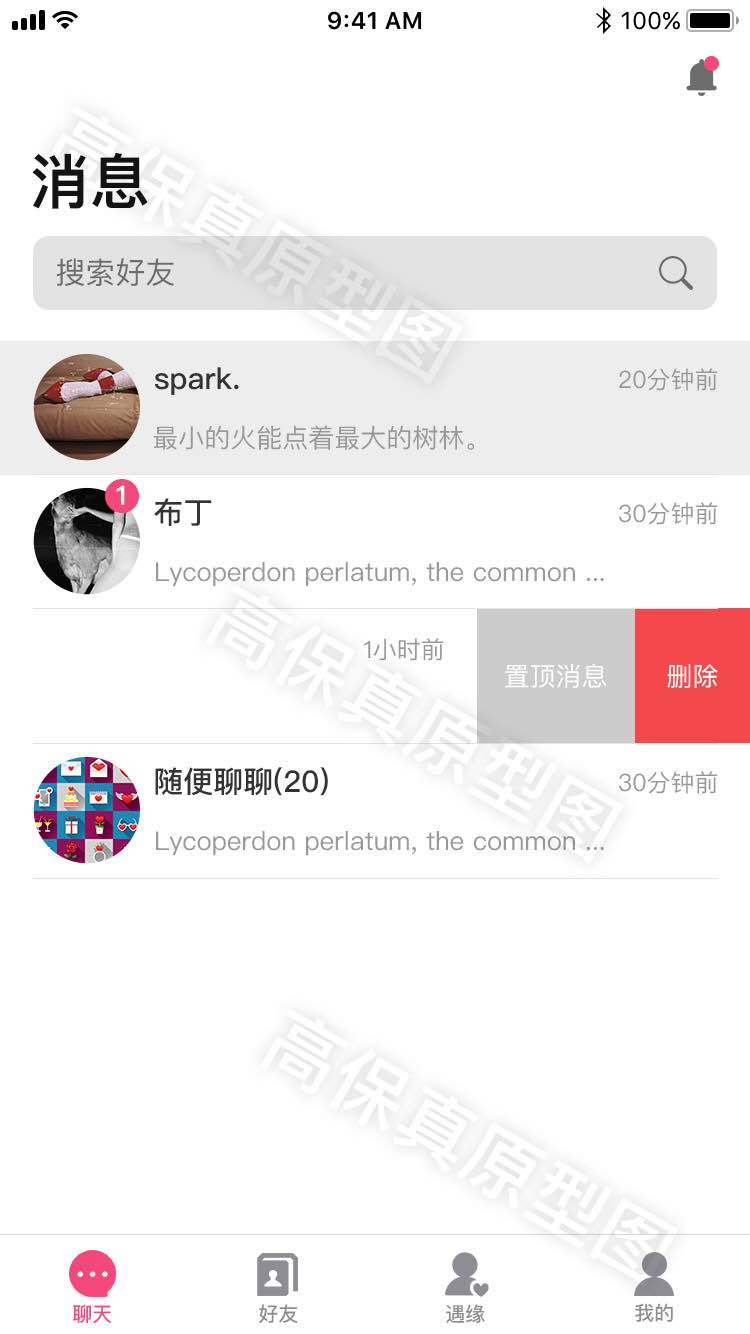
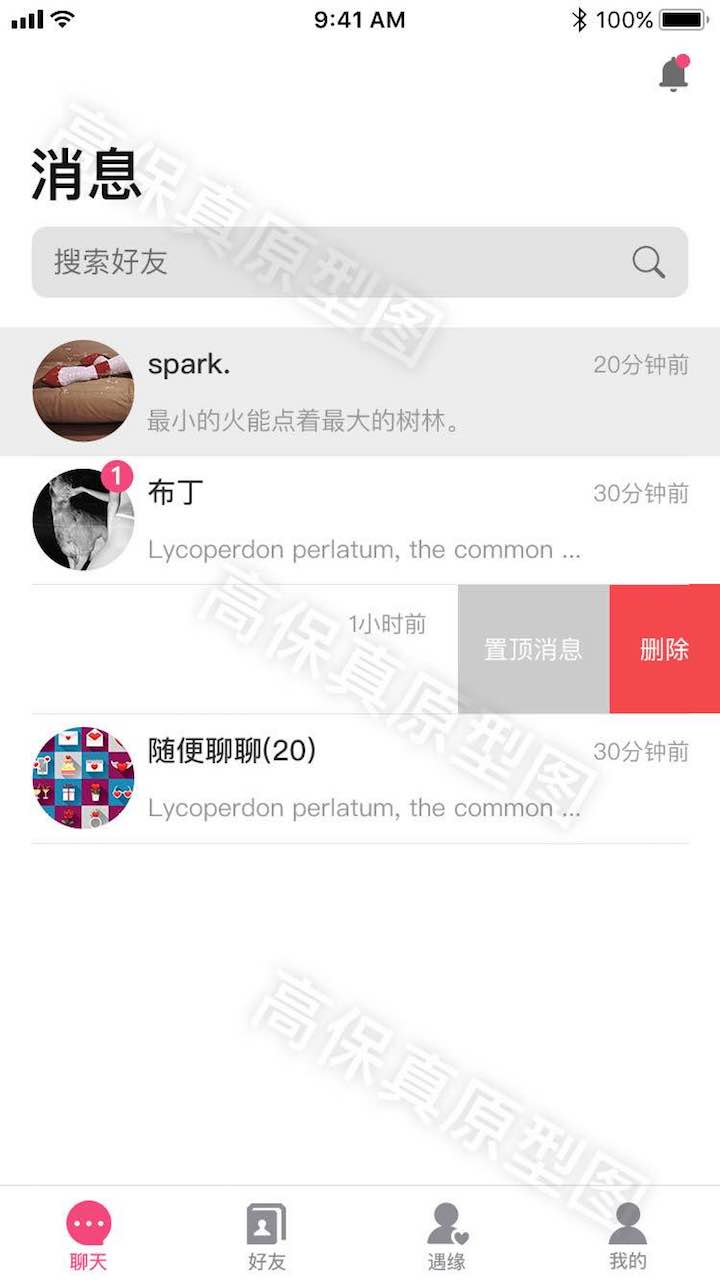
调整聊天信息UI

diff --git a/app/src/main/java/com/agmbat/meetyou/tab/msg/RecentMsgView.java b/app/src/main/java/com/agmbat/meetyou/tab/msg/RecentMsgView.java
@@ -6,9 +6,15 @@ import android.widget.ImageView;
 import android.widget.LinearLayout;
 import android.widget.TextView;
 
+import com.agmbat.android.image.ImageManager;
 import com.agmbat.meetyou.R;
 import com.agmbat.meetyou.data.ChatMessage;
 import com.agmbat.meetyou.data.RecentChat;
+import com.agmbat.time.TimeUtils;
+import com.nostra13.universalimageloader.core.DisplayImageOptions;
+import com.nostra13.universalimageloader.core.display.CircleBitmapDisplayer;
+import com.nostra13.universalimageloader.core.display.RoundedBitmapDisplayer;
+import com.nostra13.universalimageloader.core.display.SimpleBitmapDisplayer;
 
 public class RecentMsgView extends LinearLayout {
 
@@ -35,7 +41,7 @@ public class RecentMsgView extends LinearLayout {
             mMessageView.setVisibility(View.VISIBLE);
             setLastMessageBody(msg);
             mLastMsgTimeView.setVisibility(View.VISIBLE);
-            mLastMsgTimeView.setText(msg.getShowLastText());
+            mLastMsgTimeView.setText(TimeUtils.formatTime(msg.getTimestamp()));
         } else {
             mMessageView.setVisibility(View.GONE);
             mLastMsgTimeView.setVisibility(View.GONE);
@@ -50,7 +56,9 @@ public class RecentMsgView extends LinearLayout {
         }
 
 //        String uri = Scheme.wrapUri("avatar", recentChat.getContact().getAvatarId());
-//        ImageManager.displayImage(uri, mAvatarView);
+//        String uri = "http://img1.imgtn.bdimg.com/it/u=1669956509,228298322&fm=27&gp=0.jpg";
+        String uri = "https://ss2.bdstatic.com/70cFvnSh_Q1YnxGkpoWK1HF6hhy/it/u=3109469113,4179252995&fm=27&gp=0.jpg";
+        ImageManager.displayImage(uri, mAvatarView, getOptions());
 
 //        if (ConnectionHelper.getAvatarManager().isAvatarCached(
 //                recentChat.getContact().getAvatarId())) {
@@ -62,7 +70,30 @@ public class RecentMsgView extends LinearLayout {
 //        }
     }
 
+    /**
+     * 图片显示参数
+     */
+    private static DisplayImageOptions sOptions = null;
+
+    private static DisplayImageOptions getOptions() {
+        if (sOptions == null) {
+            DisplayImageOptions.Builder builder = new DisplayImageOptions.Builder();
+            // builder.showImageOnLoading(R.drawable.ic_stub);
+            int drawableId = R.drawable.ic_default_avatar;
+            builder.showImageForEmptyUri(drawableId);
+            builder.showImageOnFail(drawableId);
+            builder.cacheInMemory(true);
+            builder.cacheOnDisk(true);
+            builder.considerExifParams(false);
+//            builder.displayer(new SimpleBitmapDisplayer()); // new RoundedBitmapDisplayer(20)
+            builder.displayer(new CircleBitmapDisplayer()); // new RoundedBitmapDisplayer(20)
+            sOptions = builder.build();
+        }
+        return sOptions;
+    }
+
     private void setLastMessageBody(ChatMessage msg) {
+        mMessageView.setText(msg.getContent());
 //        Body body = msg.getBody();
 //        if (body instanceof TextBody) {
 //            TextBody textBody = (TextBody) body;

diff --git a/app/src/main/java/com/agmbat/meetyou/tab/MeetDatabase.java b/app/src/main/java/com/agmbat/meetyou/tab/MeetDatabase.java
@@ -1,5 +1,6 @@
 package com.agmbat.meetyou.tab;
 
+import com.agmbat.meetyou.data.ChatMessage;
 import com.agmbat.meetyou.data.ContactInfo;
 import com.agmbat.meetyou.data.RecentChat;
 
@@ -25,13 +26,27 @@ public class MeetDatabase {
      */
     public List<RecentChat> getRecentChatList() {
         List<RecentChat> list = new ArrayList<RecentChat>();
-        for (int i = 0; i < 10; i++) {
+        for (int i = 0; i < 50; i++) {
             RecentChat chat = new RecentChat();
             ContactInfo contactInfo = new ContactInfo();
+            contactInfo.setNickname("联系" + i);
             chat.setContact(contactInfo);
+            ChatMessage message = new ChatMessage();
+            message.setContent("Content:" + i);
+            message.setTimestamp(System.currentTimeMillis());
+            chat.setLastChatMessage(message);
             list.add(chat);
         }
         return list;
+    }
+
+    private RecentChat queryRecentChatFor(ContactInfo contactInfo) {
+        RecentChat recentChat = new RecentChat();
+        recentChat.setContact(contactInfo);
+        ChatMessage lastChatMessage = new ChatMessage();
+        recentChat.setUnreadCount(5);
+        recentChat.setLastChatMessage(lastChatMessage);
+        return recentChat;
     }
 
     public List<ContactInfo> queryFriends(String mLoginUserName) {

diff --git a/app/src/main/java/com/agmbat/meetyou/tab/msg/MsgFragment.java b/app/src/main/java/com/agmbat/meetyou/tab/msg/MsgFragment.java
@@ -140,14 +140,7 @@ public class MsgFragment extends Fragment implements AdapterView.OnItemClickList
 //        startActivityForResult(intent, REQUEST_CODE_CHAT);
     }
 
-    private RecentChat queryRecentChatFor(ContactInfo contactInfo) {
-        RecentChat recentChat = new RecentChat();
-        recentChat.setContact(contactInfo);
-        ChatMessage lastChatMessage = new ChatMessage();
-        recentChat.setUnreadCount(5);
-        recentChat.setLastChatMessage(lastChatMessage);
-        return recentChat;
-    }
+
 
     private void setState(int state) {
         if (state == STATE_LOADING) {

diff --git a/app/src/main/java/com/agmbat/meetyou/data/ChatMessage.java b/app/src/main/java/com/agmbat/meetyou/data/ChatMessage.java
@@ -4,11 +4,24 @@ package com.agmbat.meetyou.data;
  * 聊天消息
  */
 public class ChatMessage {
-    public long getTimestamp() {
-        return 0;
+
+    private String mContent;
+    private long mTimestamp;
+
+    public void setTimestamp(long timestamp) {
+        mTimestamp = timestamp;
     }
 
-    public String getShowLastText() {
-        return "2018";
+    public long getTimestamp() {
+        return mTimestamp;
+    }
+
+    public void setContent(String content) {
+        mContent = content;
+    }
+
+
+    public String getContent() {
+        return mContent;
     }
 }

diff --git a/app/src/main/java/com/agmbat/meetyou/data/ContactInfo.java b/app/src/main/java/com/agmbat/meetyou/data/ContactInfo.java
@@ -5,9 +5,16 @@ package com.agmbat.meetyou.data;
  */
 public class ContactInfo {
 
-    public String getDisplayName() {
-        return "联系人";
+    private String mNickname;
+
+    public void setNickname(String nickname) {
+        mNickname = nickname;
     }
+
+    public String getDisplayName() {
+        return mNickname;
+    }
+
 
     public String getPersonalMsg() {
         return "getPersonalMsg";
